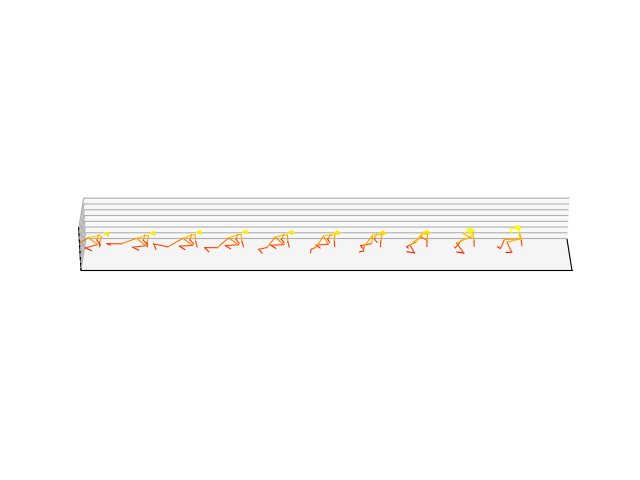
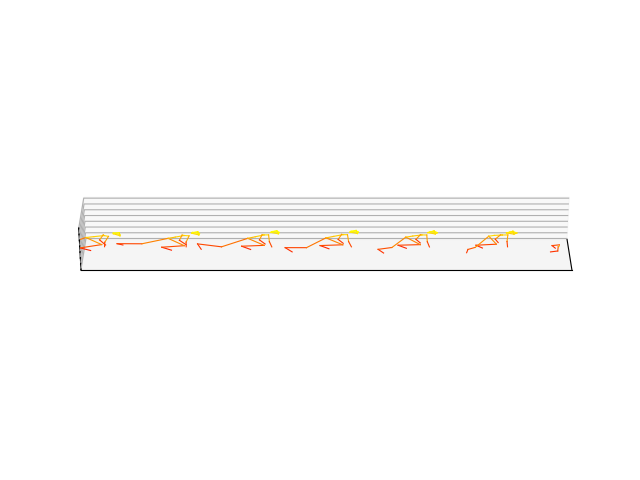
quantitative metrics for reconstruction

Changed region(s): [[0.125, 0.4688, 0.6875, 0.5312], [0.6875, 0.4688, 0.8125, 0.5312], [0.8438, 0.5, 0.875, 0.5312]]

diff --git a/move/reconstruction.py b/move/reconstruction.py
@@ -6,6 +6,7 @@ from os.path import exists
 import default_config as config
 import datasets
 from models import dgm_lstm_vae
+import numpy as np
 
 import torch
 from torch.autograd import Variable
@@ -47,7 +48,7 @@ latest_epoch = checkpoint['epoch']
         # if purpose is test: change batch_size to 1
 ####################################################
 
-purpose = 'valid' #valid or test
+purpose = 'train_qty' #valid or test, valid_qty, test_qty
 ####################################################
 
 filepath_for_artifacts = os.path.join(os.path.abspath(os.getcwd()), "evaluate/reconstruct/" + config.run_name + '_' + purpose)
@@ -84,7 +85,6 @@ if purpose=='valid':
             single_epoch=filepath_for_artifacts,
             comic=True
         )
-        break
 
 
 if purpose=='test': #change batch_size to 1
@@ -111,5 +111,147 @@ if purpose=='test': #change batch_size to 1
             purpose="test_{}".format(batch),
             config=config,
             log_to_wandb=False,
-            single_epoch=filepath_for_artifacts
+            single_epoch=filepath_for_artifacts,
+            comic=True
         )
+
+
+if purpose=='test_qty': #change batch_size to 1
+    D_total = 0
+    batches_seen = 0
+    for i_batch, (x, y) in enumerate(zip(labelled_data_test, labels_test)):
+        x, y = Variable(x), Variable(y)
+        x, y = x.to(config.device), y.to(config.device)
+
+        batch_one_hot = torch.zeros((1, 1, config.label_dim))
+        for y_i in y:
+            y_i_enc = onehot_encoder(y_i.item())
+            y_i_enc = y_i_enc.reshape((1, 1, config.label_dim))
+            batch_one_hot = torch.cat((batch_one_hot, y_i_enc), dim=0)
+        batch_one_hot = batch_one_hot[1:, :, :]
+        y = batch_one_hot.to(config.device)
+
+        x_recon = model(x, y)  # has shape [batch_size, seq_len, 159]
+        # sum over all 159 coordinates and 
+
+        D_this_batch = 0
+
+        for i in range(len(x)):
+            x_seq = x[i]  #pick one sequence in batch
+            x_seq = x_seq.reshape((config.seq_len, -1, 3)).cpu().data.numpy()
+            x_recon_seq = x_recon[i]
+            x_recon_seq = x_recon_seq.reshape((config.seq_len, -1, 3))
+            x_recon_seq= x_recon_seq.cpu().data.numpy()
+
+            d = (x_seq - x_recon_seq)**2
+            d = np.sum(d, axis = 2)
+            d = np.sqrt(d) # shape [40,53]
+            d_pose = np.sum(d, axis=1)
+
+            D = d.reshape(-1)
+            D = np.mean(D)
+            #D = np.sum(np.sum(d, axis = 1), axis=0) # shape [1,] is D for 1 sequence
+            D_this_batch += D # make D for all sequences in batch, [80,]
+
+        #D for all batches
+        batches_seen += 1
+        D_total += D_this_batch
+    # average D for test dataset
+    
+    D_test = D_total/ (batches_seen* 1)
+    print(f"the average D over the test data ({batches_seen} batches) is {D_test}")
+    
+if purpose=='valid_qty': #change batch_size to 1
+    D_total = 0
+    batches_seen = 0
+
+    for i_batch, (x, y) in enumerate(zip(labelled_data_valid, labels_valid)):
+        x, y = Variable(x), Variable(y)
+        x, y = x.to(config.device), y.to(config.device)
+
+        batch_one_hot = torch.zeros((1, 1, config.label_dim))
+        for y_i in y:
+            y_i_enc = onehot_encoder(y_i.item())
+            y_i_enc = y_i_enc.reshape((1, 1, config.label_dim))
+            batch_one_hot = torch.cat((batch_one_hot, y_i_enc), dim=0)
+        batch_one_hot = batch_one_hot[1:, :, :]
+        y = batch_one_hot.to(config.device)
+
+        x_recon = model(x, y)  # has shape [batch_size, seq_len, 159]
+        # sum over all 159 coordinates and 
+
+        D_this_batch = 0
+
+        for i in range(len(x)):
+            x_seq = x[i]  #pick one sequence in batch
+            x_seq = x_seq.reshape((config.seq_len, -1, 3)).cpu().data.numpy()
+            x_recon_seq = x_recon[i]
+            x_recon_seq = x_recon_seq.reshape((config.seq_len, -1, 3))
+            x_recon_seq= x_recon_seq.cpu().data.numpy()
+
+            d = (x_seq - x_recon_seq)**2
+            d = np.sum(d, axis = 2)
+            d = np.sqrt(d) # shape [40,53]
+            d_pose = np.sum(d, axis=1)
+
+            D = d.reshape(-1)
+            D = np.mean(D)
+            #D = np.sum(np.sum(d, axis = 1), axis=0) # shape [1,] is D for 1 sequence
+            D_this_batch += D # make D for all sequences in batch, [80,]
+
+        #D for all batches
+        batches_seen += 1
+        D_total += D_this_batch
+    # average D for valid dataset
+    
+    D_valid = D_total/ (batches_seen* config.batch_size)
+    print(f"the average D over the valid data ({batches_seen} batches) is {D_valid}")
+    
+
+
+if purpose=='train_qty': #change batch_size to 1
+    D_total = 0
+    batches_seen = 0
+
+    for i_batch, (x, y) in enumerate(zip(labelled_data_train, labels_train)):
+        x, y = Variable(x), Variable(y)
+        x, y = x.to(config.device), y.to(config.device)
+
+        batch_one_hot = torch.zeros((1, 1, config.label_dim))
+        for y_i in y:
+            y_i_enc = onehot_encoder(y_i.item())
+            y_i_enc = y_i_enc.reshape((1, 1, config.label_dim))
+            batch_one_hot = torch.cat((batch_one_hot, y_i_enc), dim=0)
+        batch_one_hot = batch_one_hot[1:, :, :]
+        y = batch_one_hot.to(config.device)
+
+        x_recon = model(x, y)  # has shape [batch_size, seq_len, 159]
+        # sum over all 159 coordinates and 
+
+        D_this_batch = 0
+
+        for i in range(len(x)):
+            x_seq = x[i]  #pick one sequence in batch
+            x_seq = x_seq.reshape((config.seq_len, -1, 3)).cpu().data.numpy()
+            x_recon_seq = x_recon[i]
+            x_recon_seq = x_recon_seq.reshape((config.seq_len, -1, 3))
+            x_recon_seq= x_recon_seq.cpu().data.numpy()
+
+            d = (x_seq - x_recon_seq)**2
+            d = np.sum(d, axis = 2)
+            d = np.sqrt(d) # shape [40,53]
+            d_pose = np.sum(d, axis=1)
+
+            D = d.reshape(-1)
+            D = np.mean(D)
+            #D = np.sum(np.sum(d, axis = 1), axis=0) # shape [1,] is D for 1 sequence
+            D_this_batch += D # make D for all sequences in batch, [80,]
+
+        #D for all batches
+        batches_seen += 1
+        D_total += D_this_batch
+    # average D for valid dataset
+    
+    D_valid = D_total/ (batches_seen* config.batch_size)
+    print(f"the average D over the train data ({batches_seen} batches) is {D_valid}")
+    

diff --git a/move/evaluate/generate_f.py b/move/evaluate/generate_f.py
@@ -502,18 +502,18 @@ def draw_comic(frames, comicname, angles=None, figsize=None, window_size=0.8, do
     frames = frames[::4, :, :]
 
     if recon:
-        cmap = 'cool_r'
+        cmap = 'autumn' #'cool_r'
     if not recon:
-        cmap = 'autumn'
+        cmap = 'cool_r'
     #cmap = 'cool_r'
     fig = plt.figure(figsize=figsize)
     ax = p3.Axes3D(fig)
     ax.view_init(30, 0)
     shift_size=0.6
     
-    ax.set_xlim(-window_size,window_size)
+    ax.set_xlim(-0.4*window_size,0.4*window_size)
     ax.set_ylim(0, 6)  #(-window_size,2*len(frames)*window_size)
-    ax.set_zlim(-0.1,0.6)
+    ax.set_zlim(-0.1,0.5)
     ax.set_box_aspect([1,8,0.8])
     ax.set_xticklabels([])
     ax.set_yticklabels([])
@@ -535,7 +535,7 @@ def draw_comic(frames, comicname, angles=None, figsize=None, window_size=0.8, do
     for iframe,frame in enumerate(frames):
         n_frame += 1
         ax.scatter(frame[:,0],
-                       frame[:,1]+n_frame*shift_size,
+                       frame[:,1]+0.4+n_frame*shift_size,
                        frame[:,2],
                        #alpha=0.3,
                        c= frame[:, 2], #'black', #zcolor,np.arange(0, 53),#
@@ -543,7 +543,7 @@ def draw_comic(frames, comicname, angles=None, figsize=None, window_size=0.8, do
                        s=dot_size,
                        depthshade=True)
 
-        zcolor = frame[:, 2] * 4
+        zcolor = frame[:, 2] * 1.5
         
         if angles is not None:
             ax.quiver(X[iframe],iframe*shift_size+Y[iframe],Z[iframe],dX[iframe],dY[iframe],0, color='black')

diff --git a/move/default_config.py b/move/default_config.py
@@ -21,7 +21,7 @@ to about 4 seconds of continuous movement.
 """
 import torch
 
-run_name = "comics2_report_gen"
+run_name = "GOOD_COMICS_test"
 load_from_checkpoint = (
     "checkpoint_smaller_lstm_contd_epoch144"
 )
